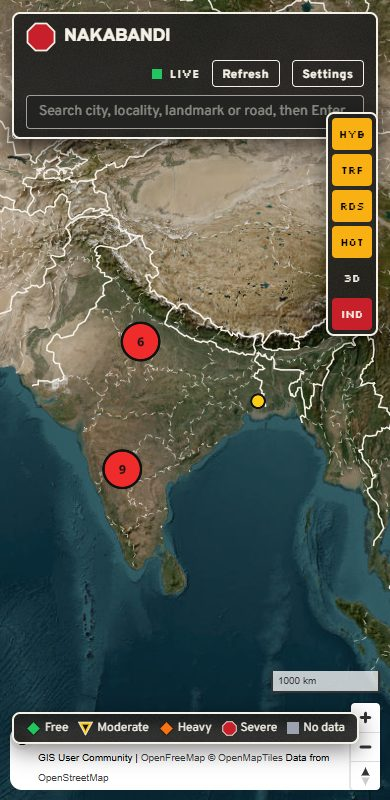
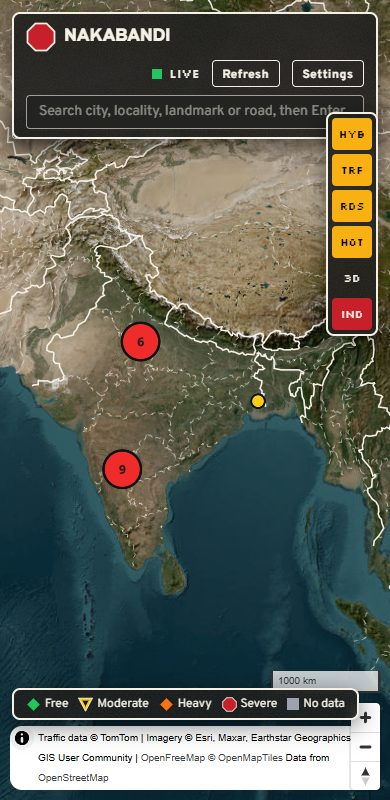
Clear mobile dock from map attribution

Changed region(s): [[0.0, 0.8438, 0.9538, 0.9688]]

diff --git a/frontend/src/components/BottomDock.tsx b/frontend/src/components/BottomDock.tsx
@@ -12,7 +12,7 @@ export function BottomDock(props: {
   onReportView: () => void;
 }) {
   return (
-    <div className="panel absolute bottom-14 left-3 z-10 md:bottom-6 flex max-w-[calc(100%-1.5rem)] flex-wrap items-center gap-x-4 gap-y-1 px-3 py-1.5 text-xs md:left-1/2 md:max-w-[60%] md:-translate-x-1/2">
+    <div className="panel absolute bottom-20 left-3 z-10 md:bottom-6 flex max-w-[calc(100%-1.5rem)] flex-wrap items-center gap-x-4 gap-y-1 px-3 py-1.5 text-xs md:left-1/2 md:max-w-[60%] md:-translate-x-1/2">
       <div className="flex items-center gap-2.5" aria-label="Congestion legend">
         <span className="flex items-center gap-1">
           <Diamond size={15} color="#22c55e" /> Free
